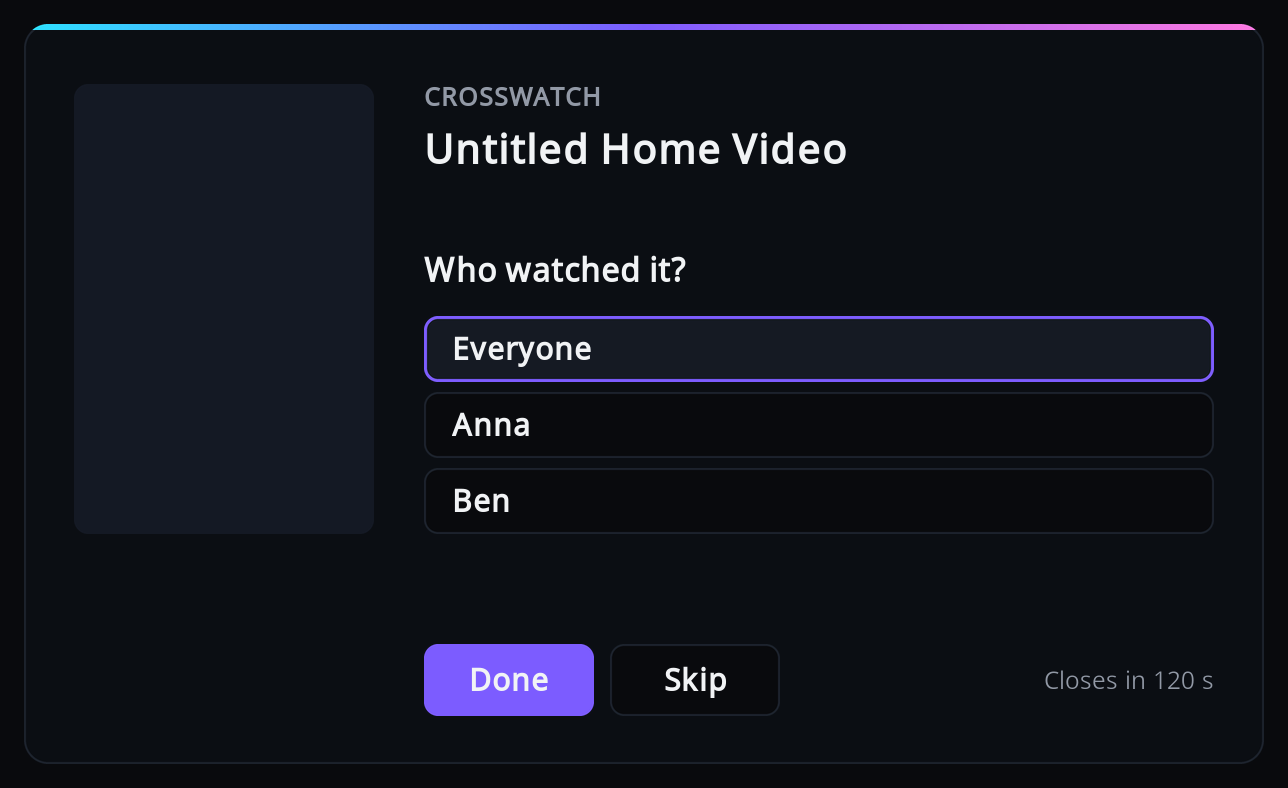
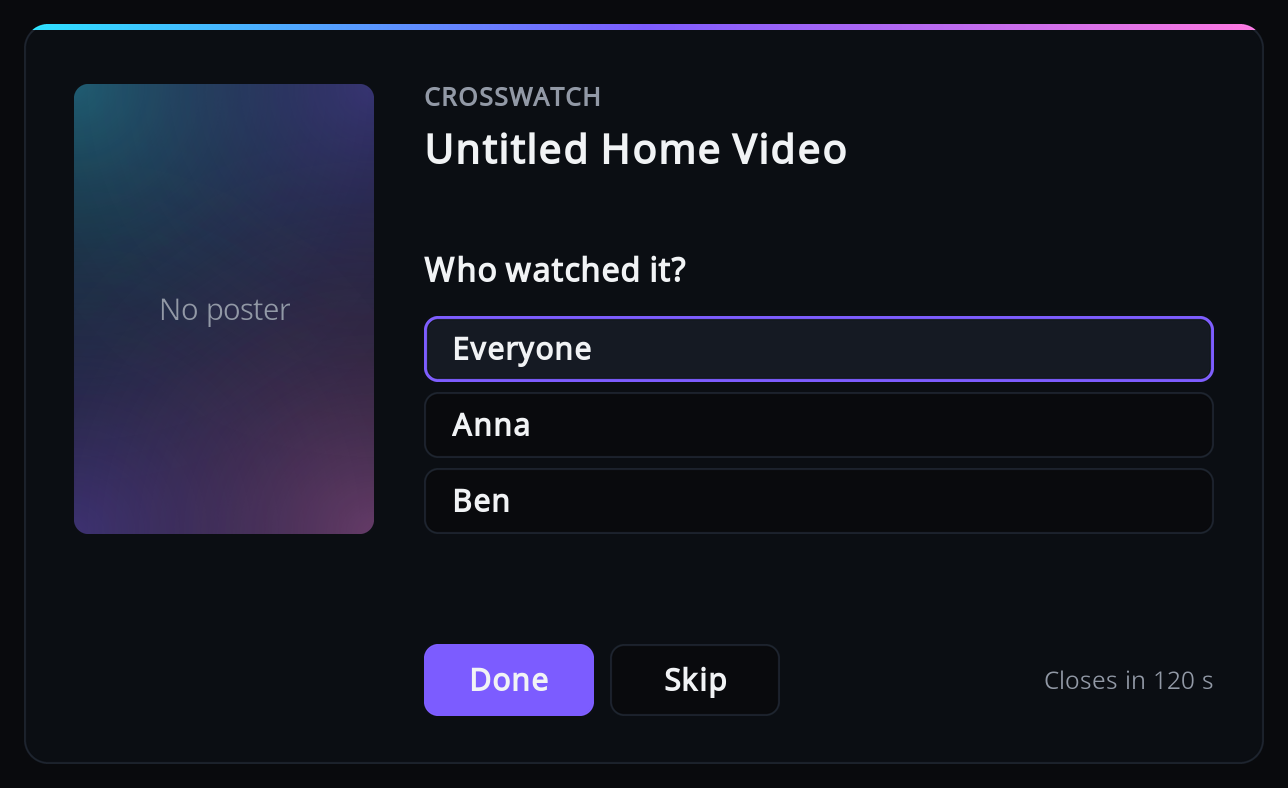
Show a CrossWatch-coloured placeholder when there is no poster
Without a poster the who-watched window showed an empty dark panel.
It now shows a soft wash of the brand gradient with "No poster" in
it. The wash is one neutral white fade, flipped into each corner and
tinted in the window, so its colours sit in the window XML with the
rest of the palette instead of being baked into an image; the style
test lists them as palette entries. The label comes from strings.po
and, like the wash, only shows while the poster is empty.

Changed region(s): [[0.0311, 0.0914, 0.3106, 0.7005]]

diff --git a/tests/test_skin_xml.py b/tests/test_skin_xml.py
@@ -87,6 +87,41 @@ def test_the_viewer_list_shows_when_there_are_more_rows():
     assert scrollbar.findtext("showonepage") == "false"
 
 
+
+NO_POSTER = "String.IsEmpty(Window.Property(CW.Poster))"
+
+
+def _poster_box(control: ET.Element) -> tuple[str | None, ...]:
+    return tuple(control.findtext(key) for key in ("left", "top", "width", "height"))
+
+
+def test_a_missing_poster_shows_brand_tinted_corners():
+    """One neutral white fade, flipped into each corner and tinted in the window, so the
+    colours live in the XML with the rest of the palette rather than in an image."""
+    glows = [c for c in _root().iter("control") if c.findtext("texture") == "crosswatch/glow.png"]
+    assert len(glows) == 4
+    corners = set()
+    for glow in glows:
+        texture = glow.find("texture")
+        assert texture is not None
+        assert glow.findtext("visible") == NO_POSTER
+        assert texture.get("diffuse") == "crosswatch/mask_poster.png"
+        assert glow.findtext("colordiffuse")
+        assert _poster_box(glow) == ("50", "60", "300", "450")
+        corners.add((texture.get("flipx"), texture.get("flipy")))
+    assert corners == {(None, None), ("true", None), (None, "true"), ("true", "true")}
+
+
+def test_a_missing_poster_says_so_in_translatable_text():
+    from resources.lib.constants import WHO_WATCHED_NO_POSTER
+
+    labels = [
+        c for c in _root().iter("control") if c.findtext("label") == f"$ADDON[{ADDON_ID} {WHO_WATCHED_NO_POSTER}]"
+    ]
+    assert len(labels) == 1
+    assert labels[0].findtext("visible") == NO_POSTER
+    assert _poster_box(labels[0]) == ("50", "60", "300", "450")
+
 CONFIRM = SKIN / "1080i" / "crosswatch-confirm.xml"
 
 

diff --git a/tests/test_window_style.py b/tests/test_window_style.py
@@ -21,6 +21,11 @@ PALETTE = {
     "text": "FFF1F3F5",
     "muted": "FF9299A6",
     "accent": "FF7C5CFF",
+    # The brand gradient's stops at a third, so a missing poster gets a soft wash of the
+    # gradient rather than art-strength colour.
+    "wash_cyan": "552DE2FF",
+    "wash_violet": "557C5CFF",
+    "wash_pink": "55FF7AE0",
 }
 SCREEN_HEIGHT = 1080
 PANEL_LEFT = 340  # centres the panel on a 1920 wide screen

diff --git a/resources/lib/constants.py b/resources/lib/constants.py
@@ -61,6 +61,7 @@ WHO_WATCHED_DONE = 30082
 WHO_WATCHED_SKIP = 30083
 WHO_WATCHED_EPISODE = 30084
 WINDOW_CLOSES_IN = 30085
+WHO_WATCHED_NO_POSTER = 30101
 WINDOW_SEARCH = 30086
 WINDOW_VIEWER = 30087
 WINDOW_ALL = 30088

diff --git a/README.md b/README.md
@@ -199,9 +199,9 @@ When neither of the above answered, Kodi asks who watched when playback stops, n
 start, so it never delays playback.
 
 The question is a CrossWatch window, not the skin's standard dialog. It shows the title of the
-show or film with its poster (a plain placeholder if there is none), plus "Season N, episode
-M" for an episode or the year for a film. Below that is an "Everyone" row, then each
-configured viewer; focus starts on Everyone.
+show or film with its poster (if there is none, a placeholder in the CrossWatch colours reading
+"No poster"), plus "Season N, episode M" for an episode or the year for a film. Below that is
+an "Everyone" row, then each configured viewer; focus starts on Everyone.
 
 - OK on a viewer ticks or unticks that viewer. You can tick more than one.
 - OK on Everyone ticks every viewer, or clears them all when all are already ticked.
